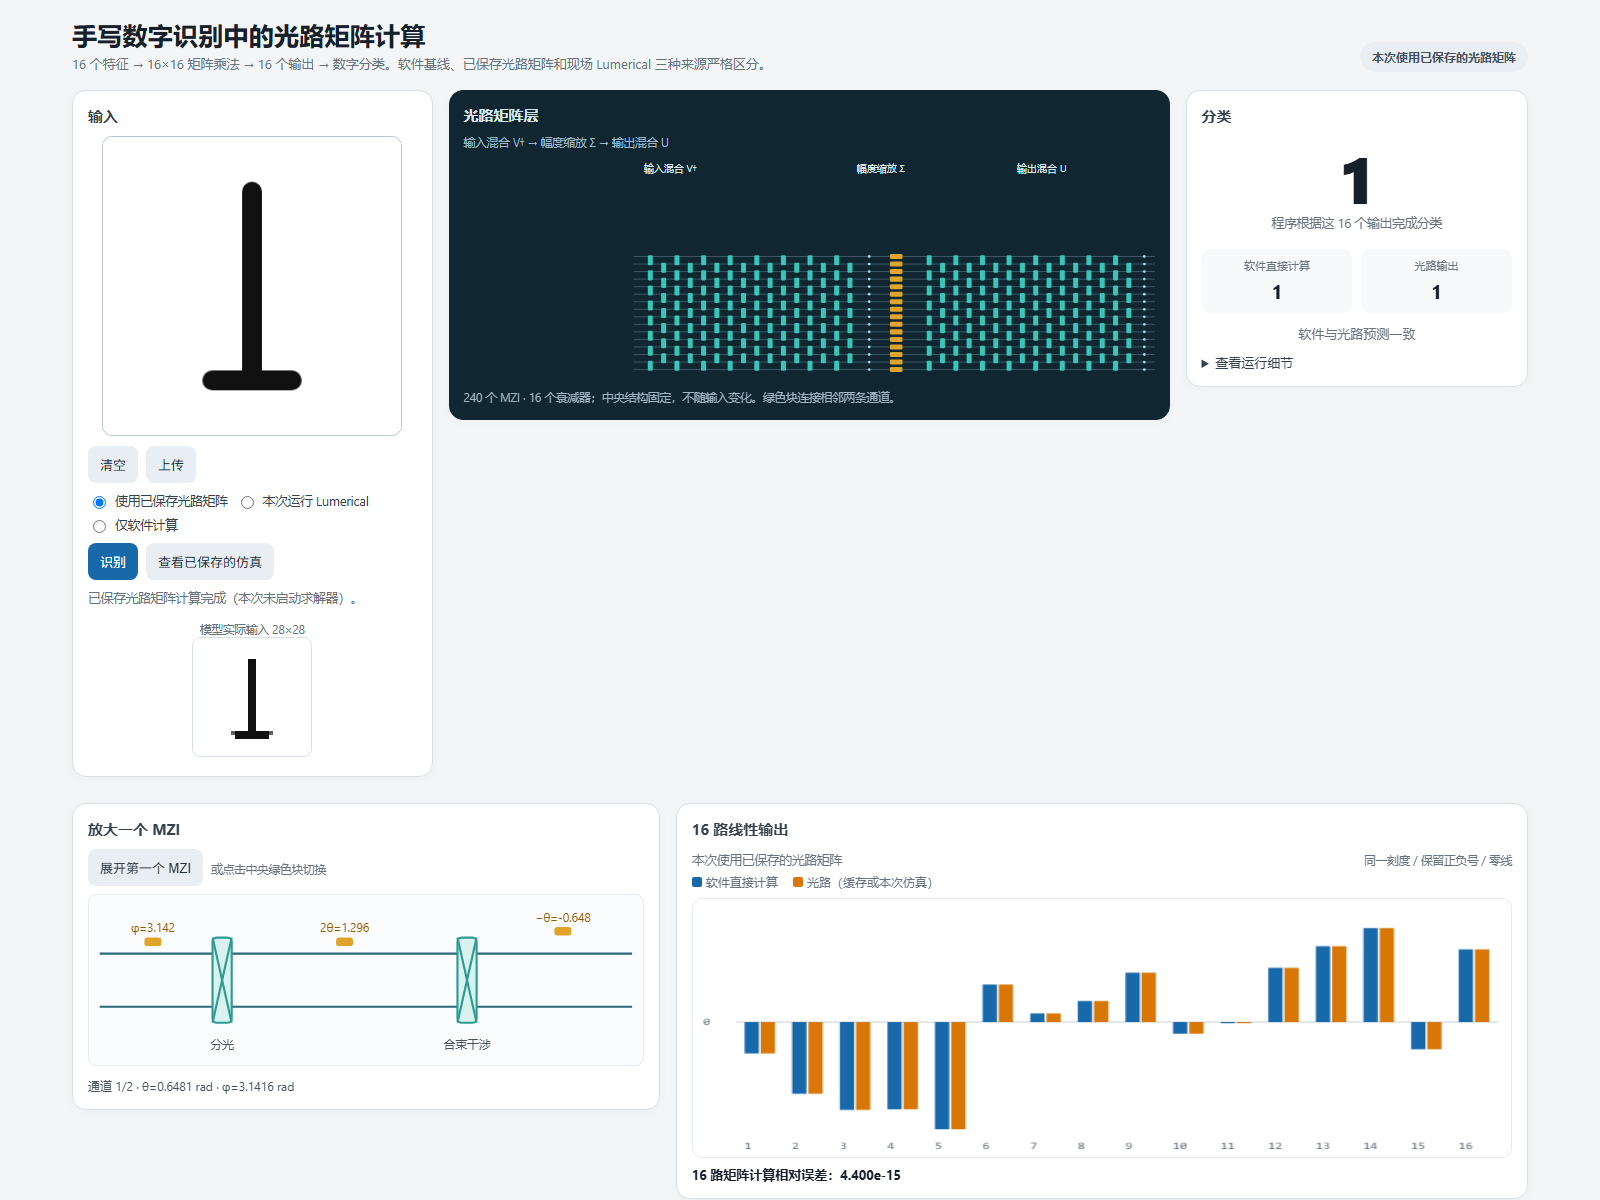
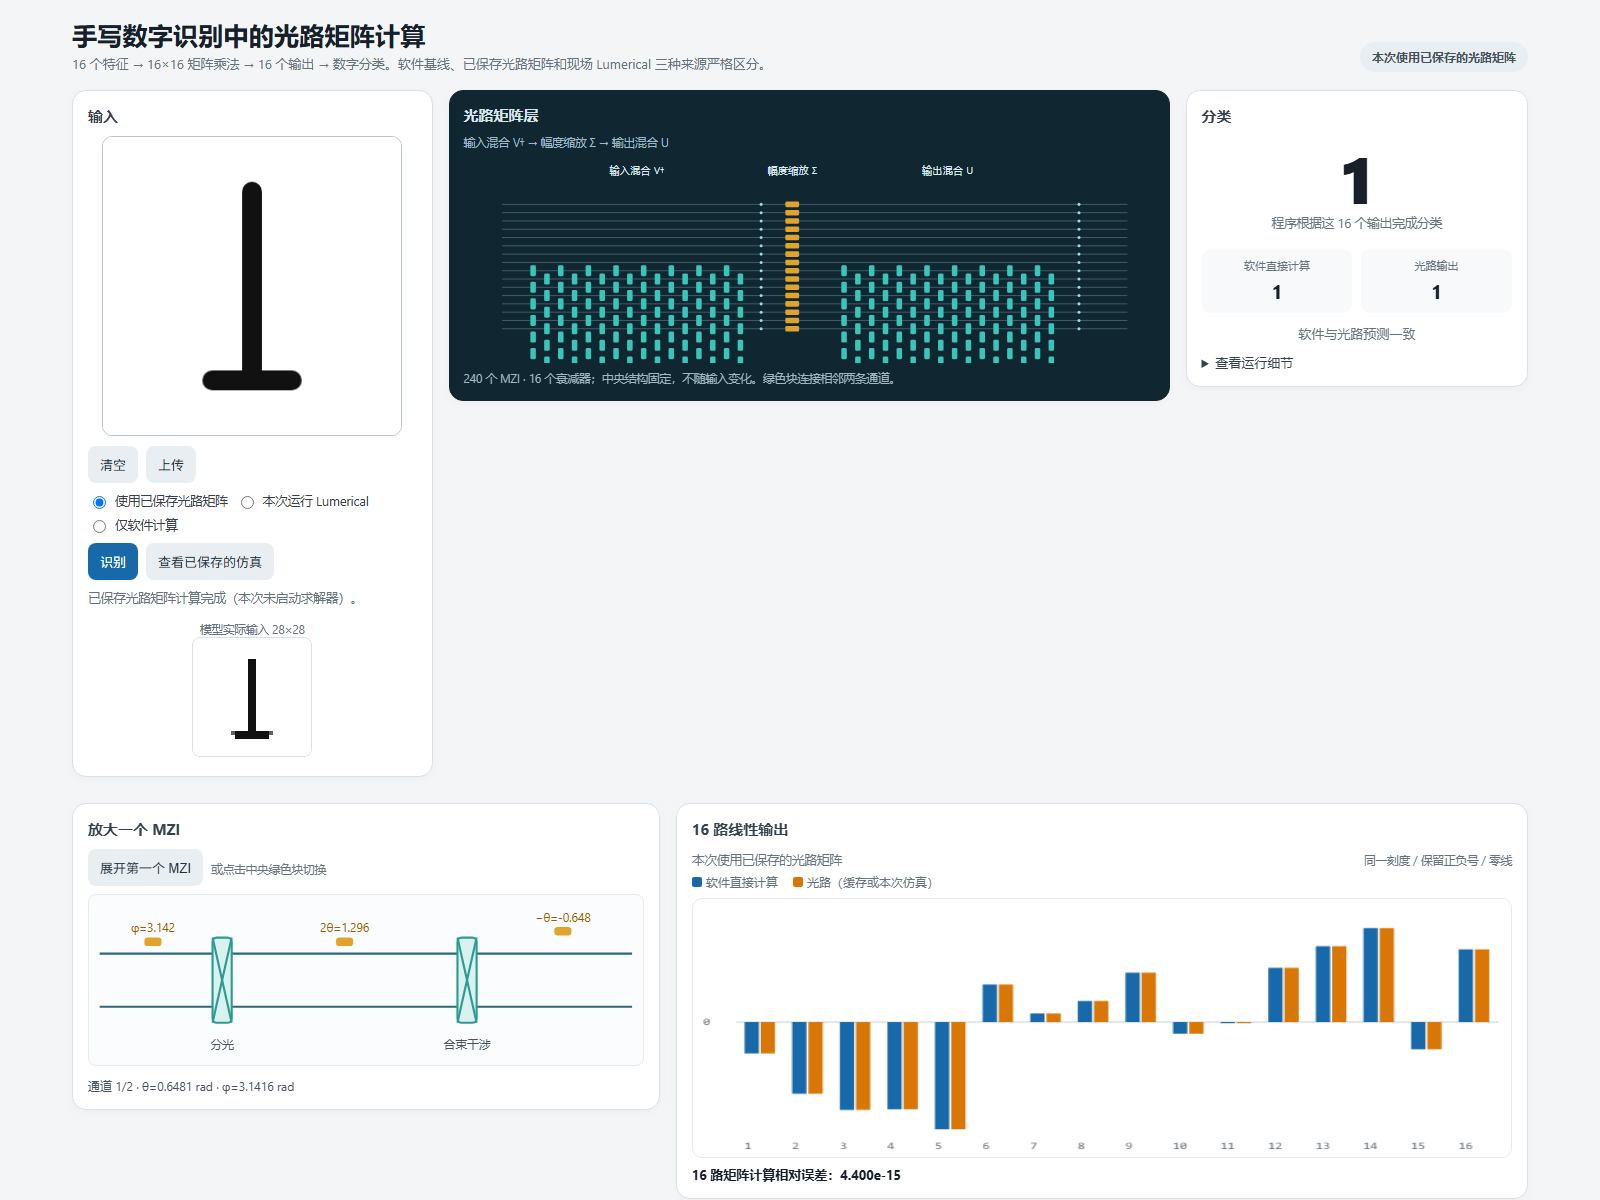
Align fixed photonic topology in presentation view

diff --git a/lumerical/live_digit_ui.py b/lumerical/live_digit_ui.py
@@ -121,7 +121,7 @@ pre { white-space:pre-wrap; overflow-wrap:anywhere; background:#f7f9fa; border-r
   <section class="card topoCard">
     <h2>光路矩阵层</h2>
     <div class="caption">输入混合 V† → 幅度缩放 Σ → 输出混合 U</div>
-    <svg id="topoSvg" viewBox="0 0 1100 360" role="img" aria-label="固定 16 通道光路拓扑"></svg>
+    <svg id="topoSvg" viewBox="0 0 1000 300" role="img" aria-label="固定 16 通道光路拓扑"></svg>
     <div class="topoNote">240 个 MZI · 16 个衰减器；中央结构固定，不随输入变化。绿色块连接相邻两条通道。</div>
   </section>
 
@@ -169,7 +169,7 @@ pre { white-space:pre-wrap; overflow-wrap:anywhere; background:#f7f9fa; border-r
     <section class="card">
       <h2>当时的光路与 16 路对照</h2>
       <div id="historySource" class="caption"></div>
-      <svg id="historyTopoSvg" viewBox="0 0 1100 360" aria-label="历史回放的固定光路拓扑"></svg>
+      <svg id="historyTopoSvg" viewBox="0 0 1000 300" aria-label="历史回放的固定光路拓扑"></svg>
       <div class="legend"><span class="sw" style="background:var(--blue)"></span>当时的软件计算 <span class="sw" style="background:var(--orange);margin-left:12px"></span>当时的电路仿真</div>
       <canvas id="historyChart" width="640" height="300" style="width:100%;height:300px;border:1px solid #e4eaee;border-radius:10px"></canvas>
       <div id="historyError" class="caption"></div>
@@ -226,27 +226,27 @@ function placeMesh(ops, left, right){
 }
 function renderTopology(id, topo, interactive){
   const svg=document.getElementById(id); svg.innerHTML='';
-  const left=286,right=625,left2=730,right2=1069;
-  svgEl('text',{x:left,y:26,fill:'#d8e8ee','font-size':16},svg).textContent='输入混合 V†';
-  svgEl('text',{x:625,y:26,fill:'#d8e8ee','font-size':16},svg).textContent='幅度缩放 Σ';
-  svgEl('text',{x:880,y:26,fill:'#d8e8ee','font-size':16},svg).textContent='输出混合 U';
-  for(let i=0;i<16;i++){ const y=160+12*i; svgEl('line',{x1:270,y1:y,x2:1100,y2:y,stroke:'#496875','stroke-width':1.2},svg); }
+  const left=90,right=410,left2=540,right2=860, att=475;
+  svgEl('text',{x:(left+right)/2,y:26,fill:'#d8e8ee','font-size':15,'text-anchor':'middle'},svg).textContent='输入混合 V†';
+  svgEl('text',{x:att,y:26,fill:'#d8e8ee','font-size':15,'text-anchor':'middle'},svg).textContent='幅度缩放 Σ';
+  svgEl('text',{x:(left2+right2)/2,y:26,fill:'#d8e8ee','font-size':15,'text-anchor':'middle'},svg).textContent='输出混合 U';
+  for(let i=0;i<16;i++){ const y=70+12*i; svgEl('line',{x1:55,y1:y,x2:960,y2:y,stroke:'#496875','stroke-width':1.2},svg); }
   const gates=placeMesh(topo.input_mesh.ops,left,right).concat(placeMesh(topo.output_mesh.ops,left2,right2));
   for(const g of gates){
     const r=svgEl('rect',{x:g.x-4,y:g.y-2,width:8,height:16,rx:2,fill:'#39c6b8',style:'cursor:pointer'},svg);
     const tip=svgEl('title',{},r);
-    tip.textContent=`${g.x<700?'输入':'输出'}网格 MZI：通道 ${g.m+1}/${g.m+2}，θ=${Number(g.theta).toFixed(4)}，φ=${Number(g.phi).toFixed(4)} rad`;
+    tip.textContent=`${g.x<att?'输入':'输出'}网格 MZI：通道 ${g.m+1}/${g.m+2}，θ=${Number(g.theta).toFixed(4)}，φ=${Number(g.phi).toFixed(4)} rad`;
     if(interactive) r.addEventListener('click',()=>{ selectedGate=g; renderMzi(g); });
   }
   for(let i=0;i<topo.amplitude_transmissions.length;i++){
-    const y=160+12*i;
-    const a=svgEl('rect',{x:678,y:y-4,width:20,height:8,rx:2,fill:'#e0a42a'},svg);
+    const y=70+12*i;
+    const a=svgEl('rect',{x:att-10,y:y-4,width:20,height:8,rx:2,fill:'#e0a42a'},svg);
     const tip=svgEl('title',{},a); tip.textContent=`通道 ${i+1} 幅度透过率 ${Number(topo.amplitude_transmissions[i]).toFixed(5)}`;
   }
   for(let i=0;i<16;i++){
-    const y=160+12*i;
-    const c1=svgEl('circle',{cx:645,cy:y,r:2.2,fill:'#9fd8e6'},svg);
-    const c2=svgEl('circle',{cx:1083,cy:y,r:2.2,fill:'#9fd8e6'},svg);
+    const y=70+12*i;
+    const c1=svgEl('circle',{cx:430,cy:y,r:2.2,fill:'#9fd8e6'},svg);
+    const c2=svgEl('circle',{cx:890,cy:y,r:2.2,fill:'#9fd8e6'},svg);
     const t1=svgEl('title',{},c1); t1.textContent=`输入网格输出相位 ${Number(topo.input_mesh.output_phases[i]).toFixed(4)} rad`;
     const t2=svgEl('title',{},c2); t2.textContent=`输出网格输出相位 ${Number(topo.output_mesh.output_phases[i]).toFixed(4)} rad`;
   }
@@ -359,10 +359,10 @@ fetch('/api/topology').then(r=>r.json()).then(topo=>{
   topology=topo;
   renderTopology('topoSvg',topo,true);
   renderTopology('historyTopoSvg',topo,false);
-  selectedGate=placeMesh(topo.input_mesh.ops,286,625)[0];
+  selectedGate=placeMesh(topo.input_mesh.ops,90,410)[0];
   renderMzi(selectedGate);
 });
-document.getElementById('expandMzi').onclick=()=>{ if(topology){ selectedGate=placeMesh(topology.input_mesh.ops,286,625)[0]; renderMzi(selectedGate); document.getElementById('mziSvg').scrollIntoView({behavior:'smooth',block:'nearest'}); } };
+document.getElementById('expandMzi').onclick=()=>{ if(topology){ selectedGate=placeMesh(topology.input_mesh.ops,90,410)[0]; renderMzi(selectedGate); document.getElementById('mziSvg').scrollIntoView({behavior:'smooth',block:'nearest'}); } };
 function drawAutoDigit(){
   white(); hasInk=true; ctx.strokeStyle='#111'; ctx.lineWidth=20; ctx.lineCap='round';
   ctx.beginPath(); ctx.moveTo(150,55); ctx.lineTo(150,245); ctx.stroke();
